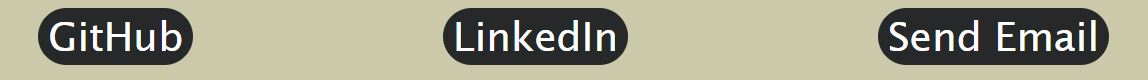
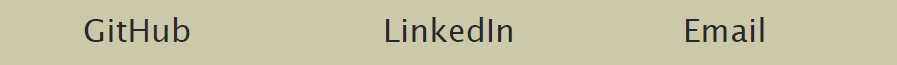
completed the redesign of portfolio and updated the readme screenshots to showcase the new UI

diff --git a/index.html b/index.html
@@ -101,9 +101,29 @@
         <div class="card-body h-100 custom-card-body">
           <div class="card h-100" style="width: 20rem">
             <img
+              src="./assets/images/tech blog screenshot.jpg"
+              class="card-img-top h-50 p-1"
+              alt="screenshot of the tech blog applications homepage"
+            />
+            <div class="card-body">
+              <h5 class="card-title">Tech Blog</h5>
+              <p class="card-text">
+                A simple tech blog to discuss tech topics!
+              </p>
+              <a
+                href="https://tech-blog-application619-bb245d34138f.herokuapp.com/"
+                class="btn btn-primary"
+                >Go to deployed app!</a
+              >
+            </div>
+          </div>
+        </div>
+        <div class="card-body h-100 custom-card-body">
+          <div class="card h-100" style="width: 20rem">
+            <img
               src="./assets/images/Pick4Me.JPG"
               class="card-img-top h-50 p-1"
-              alt="..."
+              alt="Screenshot of the Pick4Me applications landing page"
             />
             <div class="card-body">
               <h5 class="card-title">Pick4Me</h5>
@@ -123,7 +143,7 @@
             <img
               src="./assets/images/Logo Maker screenshot.JPG"
               class="card-img-top h-50 p-1"
-              alt="..."
+              alt="Image of a logo of letters S.V.G. in the middle of a green triangle created by the logo maker application"
             />
             <div class="card-body h-100">
               <h5 class="card-title">Logo Maker</h5>
@@ -144,7 +164,7 @@
             <img
               src="./assets/images/Prompts screenshot.JPG"
               class="card-img-top h-50 p-1"
-              alt="..."
+              alt="Image of propmts from the read me generator application"
             />
             <div class="card-body">
               <h5 class="card-title">Read Me Generator</h5>
@@ -165,7 +185,7 @@
             <img
               src="./assets/images/weather dashboard.JPG"
               class="card-img-top h-50 p-1"
-              alt="..."
+              alt="Screenshot of the weather dashboard application"
             />
             <div class="card-body">
               <h5 class="card-title">Weather Dashboard</h5>
@@ -186,7 +206,7 @@
             <img
               src="./assets/images/day planner.JPG"
               class="card-img-top h-50 p-1"
-              alt="..."
+              alt="Screenshot of the day planner application"
             />
             <div class="card-body">
               <h5 class="card-title">Work Day Planner</h5>
@@ -207,7 +227,7 @@
             <img
               src="./assets/images/emp-cms-screenshot.JPG"
               class="card-img-top h-50 p-1"
-              alt="..."
+              alt="Screenshot of the employee C.M.S. application"
             />
             <div class="card-body">
               <h5 class="card-title">Employee CMS</h5>
@@ -228,7 +248,7 @@
             <img
               src="./assets/images/quiz card screenshot.JPG"
               class="card-img-top h-50 p-1"
-              alt="..."
+              alt="Screenshot of the JavaScript quiz application"
             />
             <div class="card-body">
               <h5 class="card-title">JavaScript Quiz</h5>
@@ -249,7 +269,7 @@
             <img
               src="./assets/images/password project.jpg"
               class="card-img-top h-50 p-1"
-              alt="..."
+              alt="Screenshot of the password generator application"
             />
             <div class="card-body">
               <h5 class="card-title">Password Generator</h5>
@@ -270,7 +290,7 @@
             <img
               src="./assets/images/horiseon-project.JPG"
               class="card-img-top h-50 p-1"
-              alt="..."
+              alt="Screenshot of the Horiseon code refactor project"
             />
             <div class="card-body">
               <h5 class="card-title">Horiseon Code Refactor</h5>

diff --git a/assets/css/style.css b/assets/css/style.css
@@ -398,10 +398,6 @@ footer h4 {
     padding: 0;
   }
 
-  .contact-pills {
-    justify-content: start;
-  }
-
   .custom-nav {
     display: flex;
     justify-content: center;

diff --git a/README.md b/README.md
@@ -19,12 +19,6 @@ Within this portfolio, you'll find a simple and clean design and layout. There's
 
 ## Usage
 
-- Back To Top Button (bottom right of screen): At any moment you wish to go back to the top of the page, you may click the 'Back To Top' button and you will be taken back to the top of the page. No matter how far you scrolled down, the button will always be there for use.
-
-![back to top button screenshot](./assets/images/btt-screenshot.JPG)
-
----
-
 - Navigation bar (top right): Here you will see three buttons, 'About Me', 'Projects', 'Contact Me'. Click on either of these buttons and you will be taken to the section of the page a specific button coresponds to.
 
 ![navigation bar screenshot](./assets/images/nav-bar-screenshot.JPG)
